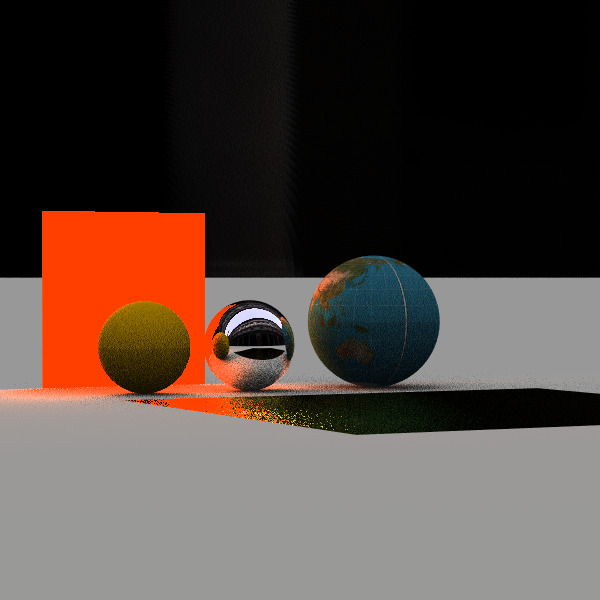
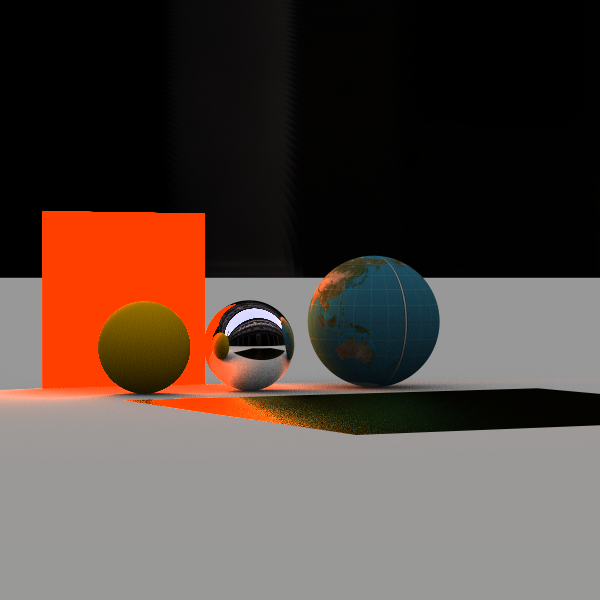
Add UV mesh triangles

diff --git a/src/GeometricObjects/MeshTriangles/SmoothUVMeshTriangle.cpp b/src/GeometricObjects/MeshTriangles/SmoothUVMeshTriangle.cpp
@@ -1,0 +1,92 @@
+// 	Copyright (C) Jonathan Reynolds 2018
+//	This C++ code is for non-commercial purposes only.
+//	This C++ code is licensed under the GNU General Public License Version 2.
+
+// This file contains the definition of the class SmoothUVMeshTriangle
+
+#include "SmoothUVMeshTriangle.h"
+
+SmoothUVMeshTriangle::SmoothUVMeshTriangle()
+: SmoothMeshTriangle()
+{}
+
+SmoothUVMeshTriangle::SmoothUVMeshTriangle(Mesh* mesh, int i0, int i1, int i2)
+: SmoothMeshTriangle(mesh, i0, i1, i2)
+{}
+
+SmoothUVMeshTriangle::SmoothUVMeshTriangle(const SmoothUVMeshTriangle& mesh_triangle)
+: SmoothMeshTriangle(mesh_triangle) {
+}
+
+SmoothUVMeshTriangle* SmoothUVMeshTriangle::clone() const {
+    SmoothUVMeshTriangle* ret = new SmoothUVMeshTriangle(*this);
+    return ret;
+}
+
+SmoothUVMeshTriangle::~SmoothUVMeshTriangle(){
+}
+
+SmoothUVMeshTriangle& SmoothUVMeshTriangle::operator=(const SmoothUVMeshTriangle& mesh_triangle){
+    SmoothMeshTriangle::operator=(mesh_triangle);
+    return (*this);
+}
+
+float SmoothUVMeshTriangle::interpolate_u(double beta, double gamma) const {
+    float u0(mesh_ptr->u[index0]);
+    float u1(mesh_ptr->u[index1]);
+    float u2(mesh_ptr->u[index2]);
+    return (1 - beta - gamma) * u0 + beta * u1 + gamma * u2;
+}
+
+float SmoothUVMeshTriangle::interpolate_v(double beta, double gamma) const {
+    float v0(mesh_ptr->v[index0]);
+    float v1(mesh_ptr->v[index1]);
+    float v2(mesh_ptr->v[index2]);
+    return (1 - beta - gamma) * v0 + beta * v1 + gamma * v2;
+}
+
+bool SmoothUVMeshTriangle::hit(const Ray& ray, double& tmin, ShadeRec& sr) const {
+    Point3D v0(mesh_ptr->vertices[index0]);
+    Point3D v1(mesh_ptr->vertices[index1]);
+    Point3D v2(mesh_ptr->vertices[index2]);
+
+    double a = v0.x - v1.x, b = v0.x - v2.x, c = ray.d.x, d = v0.x - ray.o.x;
+    double e = v0.y - v1.y, f = v0.y - v2.y, g = ray.d.y, h = v0.y - ray.o.y;
+    double i = v0.z - v1.z, j = v0.z - v2.z, k = ray.d.z, l = v0.z - ray.o.z;
+
+    double m = f * k - g * j, n = h * k - g * l, p = f * l - h * j;
+    double q = g * i - e * k, r = e * l - h * i, s = e * j - f * i;
+
+    double inv_denom = 1.0 / (a * m + b * q + c * s);
+
+    double e1 = d * m - b * n - c * p;
+    double beta = e1 * inv_denom;
+
+    if (beta < 0.0 || beta > 1.0)
+      return (false);
+
+    double e2 = a * n + d * q + c * r;
+    double gamma        = e2 * inv_denom;
+
+    if (gamma < 0.0 || gamma > 1.0)
+      return (false);
+
+    if (beta + gamma > 1.0)
+      return (false);
+
+    double e3 = a * p - b * r + d * s;
+    double t = e3 * inv_denom;
+
+    if (t < kEpsilon)
+      return (false);
+
+    tmin = t;
+    sr.normal = interpolate_normal(beta, gamma); // for smooth shading
+    if(sr.normal * ray.d > 0){
+        sr.normal = -sr.normal;
+    }
+    sr.u = interpolate_u(beta, gamma); // for texture mapping
+    sr.v = interpolate_v(beta, gamma);
+
+    return(true);
+}

diff --git a/src/GeometricObjects/MeshTriangles/FlatUVMeshTriangle.cpp b/src/GeometricObjects/MeshTriangles/FlatUVMeshTriangle.cpp
@@ -1,0 +1,78 @@
+// 	Copyright (C) Jonathan Reynolds 2018
+//	This C++ code is for non-commercial purposes only.
+//	This C++ code is licensed under the GNU General Public License Version 2.
+
+// This file contains the definition of the class FlatUVMeshTriangle
+
+#include "FlatUVMeshTriangle.h"
+
+FlatUVMeshTriangle::FlatUVMeshTriangle()
+: FlatMeshTriangle()
+{}
+
+FlatUVMeshTriangle::FlatUVMeshTriangle(Mesh* mesh, int i0, int i1, int i2)
+: FlatMeshTriangle(mesh, i0, i1, i2)
+{}
+
+FlatUVMeshTriangle::FlatUVMeshTriangle(const FlatUVMeshTriangle& mesh_triangle)
+: FlatMeshTriangle(mesh_triangle)
+{}
+
+FlatUVMeshTriangle* FlatUVMeshTriangle::clone() const {
+    FlatUVMeshTriangle* ret = new FlatUVMeshTriangle(*this);
+    return ret;
+}
+
+FlatUVMeshTriangle::~FlatUVMeshTriangle(){
+}
+
+FlatUVMeshTriangle& FlatUVMeshTriangle::operator=(const FlatUVMeshTriangle& mesh_triangle){
+    FlatMeshTriangle::operator=(mesh_triangle);
+    return (*this);
+}
+
+bool FlatUVMeshTriangle::hit(const Ray& ray, double& tmin, ShadeRec& sr) const {
+    Point3D v0(mesh_ptr->vertices[index0]);
+    Point3D v1(mesh_ptr->vertices[index1]);
+    Point3D v2(mesh_ptr->vertices[index2]);
+
+    double a = v0.x - v1.x, b = v0.x - v2.x, c = ray.d.x, d = v0.x - ray.o.x;
+    double e = v0.y - v1.y, f = v0.y - v2.y, g = ray.d.y, h = v0.y - ray.o.y;
+    double i = v0.z - v1.z, j = v0.z - v2.z, k = ray.d.z, l = v0.z - ray.o.z;
+
+    double m = f * k - g * j, n = h * k - g * l, p = f * l - h * j;
+    double q = g * i - e * k, r = e * l - h * i, s = e * j - f * i;
+
+    double inv_denom = 1.0 / (a * m + b * q + c * s);
+
+    double e1 = d * m - b * n - c * p;
+    double beta = e1 * inv_denom;
+
+    if (beta < 0.0 || beta > 1.0)
+      return (false);
+
+    double e2 = a * n + d * q + c * r;
+    double gamma        = e2 * inv_denom;
+
+    if (gamma < 0.0 || gamma > 1.0)
+      return (false);
+
+    if (beta + gamma > 1.0)
+      return (false);
+
+    double e3 = a * p - b * r + d * s;
+    double t = e3 * inv_denom;
+
+    if (t < kEpsilon)
+      return (false);
+
+    tmin = t;
+    sr.normal = normal;                      // for flat shading
+    if(normal * ray.d > 0){
+        sr.normal = -sr.normal;
+    }
+    sr.u = interpolate_u(beta, gamma); // for texture mapping
+    sr.v = interpolate_v(beta, gamma);
+
+    return(true);
+}

diff --git a/include/GeometricObjects/MeshTriangles/SmoothUVMeshTriangle.h b/include/GeometricObjects/MeshTriangles/SmoothUVMeshTriangle.h
@@ -1,0 +1,40 @@
+#ifndef __SMOOTH_UV_MESH_TRIANGLE__
+#define __SMOOTH_UV_MESH_TRIANGLE__
+// 	Copyright (C) Jonathan Reynolds 2018
+//	This C++ code is for non-commercial purposes only.
+//	This C++ code is licensed under the GNU General Public License Version 2.
+
+// This file contains the declaration of the class SmoothUVMeshTriangle
+
+#include "SmoothMeshTriangle.h"
+
+//-------------------------------------------------------------------------------- class SmoothUVMeshTriangle
+
+class SmoothUVMeshTriangle: public SmoothMeshTriangle {
+
+	public:
+
+		SmoothUVMeshTriangle();   									// Default constructor
+		SmoothUVMeshTriangle(Mesh* mesh, int i0, int i1, int i2);   // argument constructor
+		SmoothUVMeshTriangle(const SmoothUVMeshTriangle& object);			// Copy constructor
+		virtual SmoothUVMeshTriangle* clone() const;				// Clone
+		virtual	~SmoothUVMeshTriangle();							// Destructor
+
+		SmoothUVMeshTriangle& 											// assignment operator
+		operator= (const SmoothUVMeshTriangle& mesh_triangle);
+
+		virtual bool hit(const Ray& ray, double& t, ShadeRec& s) const;
+
+		virtual char get_cl_type() const;
+
+    private:
+
+		float interpolate_u(double beta, double gamma) const;
+		float interpolate_v(double beta, double gamma) const;
+};
+
+inline char SmoothUVMeshTriangle::get_cl_type() const {
+    return 'F';
+}
+
+#endif

diff --git a/include/GeometricObjects/MeshTriangles/FlatUVMeshTriangle.h b/include/GeometricObjects/MeshTriangles/FlatUVMeshTriangle.h
@@ -1,0 +1,35 @@
+#ifndef __FLAT_UV_MESH_TRIANGLE__
+#define __FLAT_UV_MESH_TRIANGLE__
+// 	Copyright (C) Jonathan Reynolds 2018
+//	This C++ code is for non-commercial purposes only.
+//	This C++ code is licensed under the GNU General Public License Version 2.
+
+// This file contains the declaration of the class FlatUVMeshTriangle
+
+#include "FlatMeshTriangle.h"
+
+//-------------------------------------------------------------------------------- class FlatUVMeshTriangle
+
+class FlatUVMeshTriangle: public FlatMeshTriangle {
+
+	public:
+
+		FlatUVMeshTriangle();   									// Default constructor
+		FlatUVMeshTriangle(Mesh* mesh, int i0, int i1, int i2);   // argument constructor
+		FlatUVMeshTriangle(const FlatUVMeshTriangle& object);			// Copy constructor
+		virtual FlatUVMeshTriangle* clone() const;				// Clone
+		virtual	~FlatUVMeshTriangle();							// Destructor
+
+		FlatUVMeshTriangle& 											// assignment operator
+		operator= (const FlatUVMeshTriangle& mesh_triangle);
+
+		virtual bool hit(const Ray& ray, double& t, ShadeRec& s) const;
+
+		virtual char get_cl_type() const;
+};
+
+inline char FlatUVMeshTriangle::get_cl_type() const {
+    return 'F';
+}
+
+#endif

diff --git a/src/World/World.cpp b/src/World/World.cpp
@@ -110,7 +110,7 @@ World::~World(){
 void World::build(){
 	background_color = black;
 	renderer = new SDLRenderer;
-	int num_samples = 10;
+	int num_samples = 100;
 
 	MultiJittered* sampler_ptr = new MultiJittered(num_samples);
 
@@ -122,7 +122,7 @@ void World::build(){
 	vp.set_sampler(sampler_ptr);
 	add_double2_sampler(sampler_ptr);
 
-	vp.set_max_depth(100);
+	vp.set_max_depth(10);
 
 	tracer_ptr = new Whitted(this);
 

diff --git a/include/GeometricObjects/MeshTriangles/SmoothMeshTriangle.h b/include/GeometricObjects/MeshTriangles/SmoothMeshTriangle.h
@@ -26,7 +26,7 @@ class SmoothMeshTriangle: public MeshTriangle {
 
 		virtual char get_cl_type() const;
 
-	private:
+	protected:
 		Normal interpolate_normal(double beta, double gamma) const;
 
 };
